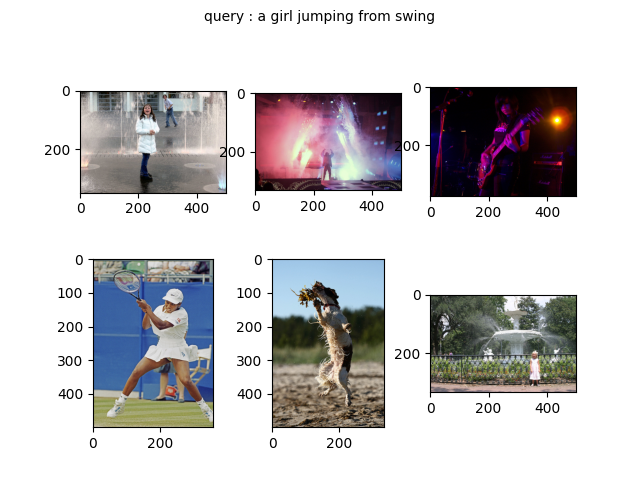
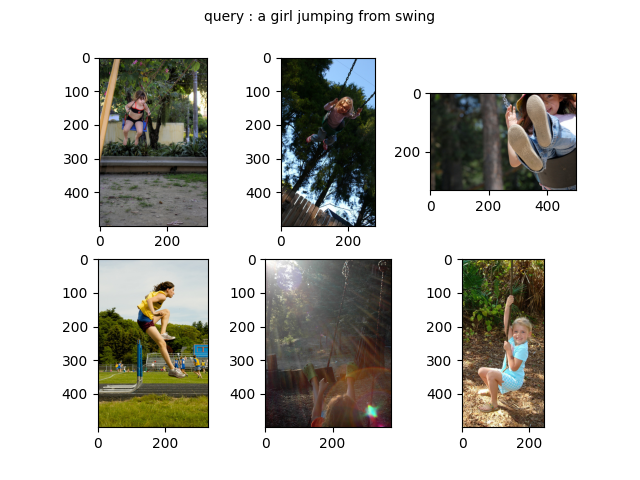
update

diff --git a/utils.py b/utils.py
@@ -5,11 +5,9 @@ from torch.utils.data import Dataset
 import numpy as np
 import pandas as pd
 import matplotlib.pyplot as plt
-import glob
 import os
 import sys
 import cv2
-import json
 from concurrent import futures
 import torch
 import torch.nn as nn
@@ -144,11 +142,13 @@ def find_matches(model, query, img_embeddings, filenames, device):
     text_embeddings_n = F.normalize(text_embeddings, p=2, dim=-1)
 
     dot_similarity = text_embeddings_n @ img_embeddings_n.T
-    values, indices = torch.topk(dot_similarity.squeeze(0), 30)
+    values, indices = torch.topk(dot_similarity.squeeze(0), 50)
     matches = [filenames[idx] for idx in indices[::5]]
     fig, ax = plt.subplots(2,3)
     fig.suptitle(f"query : {query}", fontsize=10)
     for i, match_file in enumerate(matches):
+        if i >= 6:
+            break
         img = cv2.imread(match_file)
         img = cv2.cvtColor(img, cv2.COLOR_BGR2RGB)
         ax[i//3, i%3].imshow(img)

diff --git a/CLIP.py b/CLIP.py
@@ -23,7 +23,7 @@ import argparse
 class CLIP():
     def __init__(self, args):
         # self.data_dir = args.data_dir
-        self.wandb_key = args.wandb_key
+        self.wandb = args.wandb
         self.save_weight = args.save_weight
         if torch.cuda.is_available():
             self.device="cuda"
@@ -55,7 +55,7 @@ class CLIP():
 
     def train(self):
         #wandb
-        if self.wandb_key:
+        if self.wandb:
             run = wandb.init(**CFG.wandb, settings=wandb.Settings(code_dir="."))
             wandb.watch(models=(self.Net), log_freq=100)
 
@@ -86,12 +86,12 @@ class CLIP():
 
             losses["cross_entropy"] /= iteration
 
-            if self.wandb_key:
+            if self.wandb:
                 wandb.log(losses)
 
         self.save()
 
-        if self.wandb_key:
+        if self.wandb:
             run.finish()
 
 

diff --git a/config.py b/config.py
@@ -8,7 +8,7 @@ class CFG:
             "name":"test",
             "notes":"test"}
 
-    EPOCH = 1
+    EPOCH = 5
     IMG_SIZE = 224
     MAX_LENGTH = 200
     VAL_SET = 1
